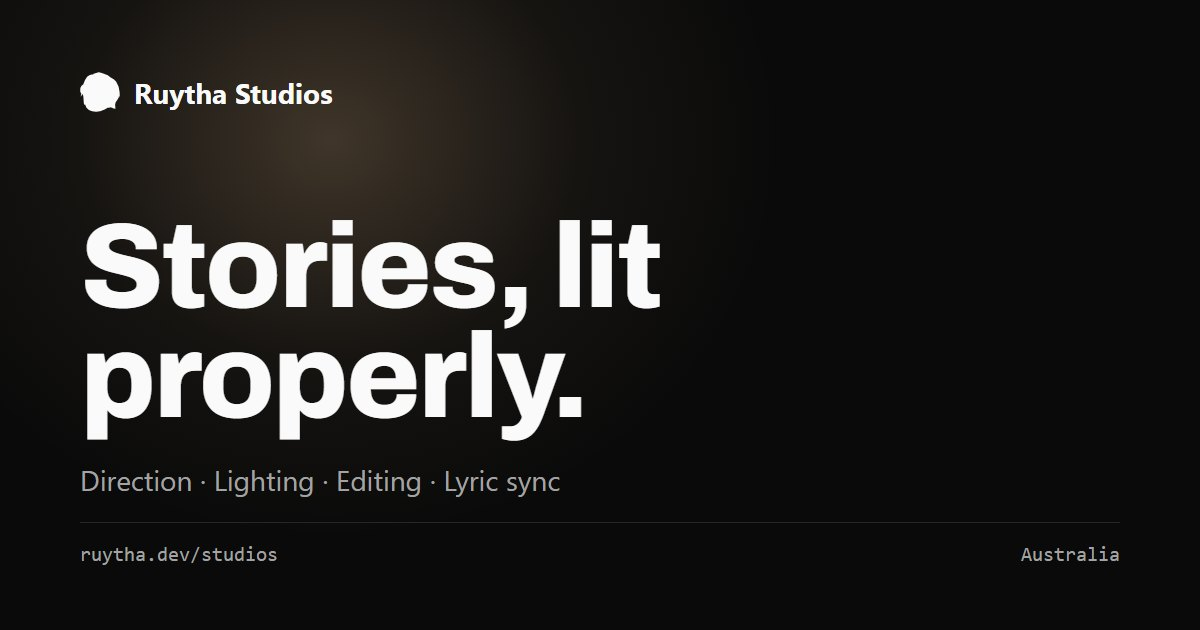
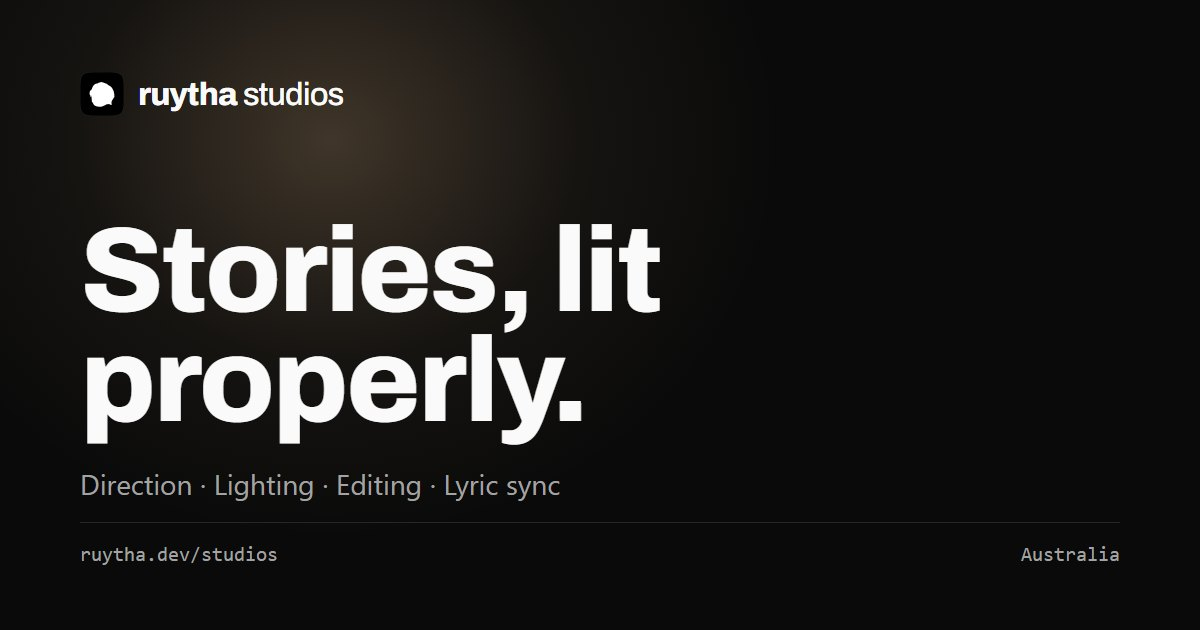
New Ruytha Studios mark in the Apple Music style
Monochrome squircle icon (white head on black, flips in light mode) and a
heavy lowercase wordmark with a lighter "studios", across every studio
page, the favicons and the link preview. Favicons get new names to skip
the week-long image cache.

diff --git a/studios/legal/shutter/terms-of-service.html b/studios/legal/shutter/terms-of-service.html
@@ -15,18 +15,18 @@
 <meta property="og:url" content="https://ruytha.dev/studios/legal/shutter/terms-of-service">
 <meta property="og:image" content="https://ruytha.dev/assets/img/studios/og.jpg">
 <meta name="twitter:card" content="summary_large_image">
-<link rel="icon" href="../../../assets/img/studios/icon.svg" type="image/svg+xml">
-<link rel="icon" href="../../../assets/img/studios/icon-32.png" type="image/png" sizes="32x32">
-<link rel="apple-touch-icon" href="../../../assets/img/studios/apple-touch-icon.png">
+<link rel="icon" href="../../../assets/img/studios/app-icon.svg" type="image/svg+xml">
+<link rel="icon" href="../../../assets/img/studios/app-icon-32.png" type="image/png" sizes="32x32">
+<link rel="apple-touch-icon" href="../../../assets/img/studios/app-touch-icon.png">
 <link rel="preconnect" href="https://fonts.googleapis.com">
 <link rel="preconnect" href="https://fonts.gstatic.com" crossorigin>
-<link rel="stylesheet" href="https://fonts.googleapis.com/css2?family=Archivo:wght@700;800&display=swap">
+<link rel="stylesheet" href="https://fonts.googleapis.com/css2?family=Archivo:wght@500;700;800&display=swap">
 <link rel="stylesheet" href="../../../assets/studios.css">
 </head>
 <body>
 <header class="nav">
   <div class="w">
-    <a class="logo" href="/studios"><i class="logo-mark" aria-hidden="true"></i>Ruytha Studios</a>
+    <a class="logo" href="/studios"><img class="logo-tile" src="../../../assets/img/studios/mark.svg" alt="" width="26" height="26"><span class="wm"><b>ruytha</b> studios</span></a>
     <nav class="links" aria-label="Pages"><a href="/studios/services">Services</a><a href="/studios/toolkit">Toolkit</a><a href="/studios/shutter">Shutter</a><a href="/studios/slate">Slate</a><a href="/studios/tools">Tools</a><a href="/studios/contact">Contact</a></nav>
     <a class="btn solid" href="/studios/contact">Start a project</a>
     <button class="menu-btn" type="button" aria-expanded="false" aria-controls="mnav" aria-label="Menu"><span></span><span></span></button>
@@ -97,7 +97,7 @@
 
 <footer>
   <div class="w">
-    <a class="logo" href="/studios"><i class="logo-mark" aria-hidden="true"></i>Ruytha Studios</a>
+    <a class="logo" href="/studios"><img class="logo-tile" src="../../../assets/img/studios/mark.svg" alt="" width="26" height="26"><span class="wm"><b>ruytha</b> studios</span></a>
     <a href="/studios/services">Services</a><a href="/studios/toolkit">Toolkit</a><a href="/studios/shutter">Shutter</a><a href="/studios/slate">Slate</a><a href="/studios/tools">Tools</a><a href="/studios/contact">Contact</a>
     <a href="/">Ruytha's site</a>
     <a href="/studios/legal">Legal</a>

diff --git a/studios/legal/slate/terms-of-service.html b/studios/legal/slate/terms-of-service.html
@@ -15,18 +15,18 @@
 <meta property="og:url" content="https://ruytha.dev/studios/legal/slate/terms-of-service">
 <meta property="og:image" content="https://ruytha.dev/assets/img/studios/og.jpg">
 <meta name="twitter:card" content="summary_large_image">
-<link rel="icon" href="../../../assets/img/studios/icon.svg" type="image/svg+xml">
-<link rel="icon" href="../../../assets/img/studios/icon-32.png" type="image/png" sizes="32x32">
-<link rel="apple-touch-icon" href="../../../assets/img/studios/apple-touch-icon.png">
+<link rel="icon" href="../../../assets/img/studios/app-icon.svg" type="image/svg+xml">
+<link rel="icon" href="../../../assets/img/studios/app-icon-32.png" type="image/png" sizes="32x32">
+<link rel="apple-touch-icon" href="../../../assets/img/studios/app-touch-icon.png">
 <link rel="preconnect" href="https://fonts.googleapis.com">
 <link rel="preconnect" href="https://fonts.gstatic.com" crossorigin>
-<link rel="stylesheet" href="https://fonts.googleapis.com/css2?family=Archivo:wght@700;800&display=swap">
+<link rel="stylesheet" href="https://fonts.googleapis.com/css2?family=Archivo:wght@500;700;800&display=swap">
 <link rel="stylesheet" href="../../../assets/studios.css">
 </head>
 <body>
 <header class="nav">
   <div class="w">
-    <a class="logo" href="/studios"><i class="logo-mark" aria-hidden="true"></i>Ruytha Studios</a>
+    <a class="logo" href="/studios"><img class="logo-tile" src="../../../assets/img/studios/mark.svg" alt="" width="26" height="26"><span class="wm"><b>ruytha</b> studios</span></a>
     <nav class="links" aria-label="Pages"><a href="/studios/services">Services</a><a href="/studios/toolkit">Toolkit</a><a href="/studios/shutter">Shutter</a><a href="/studios/slate">Slate</a><a href="/studios/tools">Tools</a><a href="/studios/contact">Contact</a></nav>
     <a class="btn solid" href="/studios/contact">Start a project</a>
     <button class="menu-btn" type="button" aria-expanded="false" aria-controls="mnav" aria-label="Menu"><span></span><span></span></button>
@@ -75,7 +75,7 @@
 
 <footer>
   <div class="w">
-    <a class="logo" href="/studios"><i class="logo-mark" aria-hidden="true"></i>Ruytha Studios</a>
+    <a class="logo" href="/studios"><img class="logo-tile" src="../../../assets/img/studios/mark.svg" alt="" width="26" height="26"><span class="wm"><b>ruytha</b> studios</span></a>
     <a href="/studios/services">Services</a><a href="/studios/toolkit">Toolkit</a><a href="/studios/shutter">Shutter</a><a href="/studios/slate">Slate</a><a href="/studios/tools">Tools</a><a href="/studios/contact">Contact</a>
     <a href="/">Ruytha's site</a>
     <a href="/studios/legal">Legal</a>

diff --git a/studios/legal/tools/terms-of-service.html b/studios/legal/tools/terms-of-service.html
@@ -15,18 +15,18 @@
 <meta property="og:url" content="https://ruytha.dev/studios/legal/tools/terms-of-service">
 <meta property="og:image" content="https://ruytha.dev/assets/img/studios/og.jpg">
 <meta name="twitter:card" content="summary_large_image">
-<link rel="icon" href="../../../assets/img/studios/icon.svg" type="image/svg+xml">
-<link rel="icon" href="../../../assets/img/studios/icon-32.png" type="image/png" sizes="32x32">
-<link rel="apple-touch-icon" href="../../../assets/img/studios/apple-touch-icon.png">
+<link rel="icon" href="../../../assets/img/studios/app-icon.svg" type="image/svg+xml">
+<link rel="icon" href="../../../assets/img/studios/app-icon-32.png" type="image/png" sizes="32x32">
+<link rel="apple-touch-icon" href="../../../assets/img/studios/app-touch-icon.png">
 <link rel="preconnect" href="https://fonts.googleapis.com">
 <link rel="preconnect" href="https://fonts.gstatic.com" crossorigin>
-<link rel="stylesheet" href="https://fonts.googleapis.com/css2?family=Archivo:wght@700;800&display=swap">
+<link rel="stylesheet" href="https://fonts.googleapis.com/css2?family=Archivo:wght@500;700;800&display=swap">
 <link rel="stylesheet" href="../../../assets/studios.css">
 </head>
 <body>
 <header class="nav">
   <div class="w">
-    <a class="logo" href="/studios"><i class="logo-mark" aria-hidden="true"></i>Ruytha Studios</a>
+    <a class="logo" href="/studios"><img class="logo-tile" src="../../../assets/img/studios/mark.svg" alt="" width="26" height="26"><span class="wm"><b>ruytha</b> studios</span></a>
     <nav class="links" aria-label="Pages"><a href="/studios/services">Services</a><a href="/studios/toolkit">Toolkit</a><a href="/studios/shutter">Shutter</a><a href="/studios/slate">Slate</a><a href="/studios/tools">Tools</a><a href="/studios/contact">Contact</a></nav>
     <a class="btn solid" href="/studios/contact">Start a project</a>
     <button class="menu-btn" type="button" aria-expanded="false" aria-controls="mnav" aria-label="Menu"><span></span><span></span></button>
@@ -64,7 +64,7 @@
 
 <footer>
   <div class="w">
-    <a class="logo" href="/studios"><i class="logo-mark" aria-hidden="true"></i>Ruytha Studios</a>
+    <a class="logo" href="/studios"><img class="logo-tile" src="../../../assets/img/studios/mark.svg" alt="" width="26" height="26"><span class="wm"><b>ruytha</b> studios</span></a>
     <a href="/studios/services">Services</a><a href="/studios/toolkit">Toolkit</a><a href="/studios/shutter">Shutter</a><a href="/studios/slate">Slate</a><a href="/studios/tools">Tools</a><a href="/studios/contact">Contact</a>
     <a href="/">Ruytha's site</a>
     <a href="/studios/legal">Legal</a>

diff --git a/studios/shutter.html b/studios/shutter.html
@@ -15,18 +15,18 @@
 <meta property="og:url" content="https://ruytha.dev/studios/shutter">
 <meta property="og:image" content="https://ruytha.dev/assets/img/studios/shutter-review.jpg">
 <meta name="twitter:card" content="summary_large_image">
-<link rel="icon" href="../assets/img/studios/icon.svg" type="image/svg+xml">
-<link rel="icon" href="../assets/img/studios/icon-32.png" type="image/png" sizes="32x32">
-<link rel="apple-touch-icon" href="../assets/img/studios/apple-touch-icon.png">
+<link rel="icon" href="../assets/img/studios/app-icon.svg" type="image/svg+xml">
+<link rel="icon" href="../assets/img/studios/app-icon-32.png" type="image/png" sizes="32x32">
+<link rel="apple-touch-icon" href="../assets/img/studios/app-touch-icon.png">
 <link rel="preconnect" href="https://fonts.googleapis.com">
 <link rel="preconnect" href="https://fonts.gstatic.com" crossorigin>
-<link rel="stylesheet" href="https://fonts.googleapis.com/css2?family=Archivo:wght@700;800&display=swap">
+<link rel="stylesheet" href="https://fonts.googleapis.com/css2?family=Archivo:wght@500;700;800&display=swap">
 <link rel="stylesheet" href="../assets/studios.css">
 </head>
 <body>
 <header class="nav">
   <div class="w">
-    <a class="logo" href="/studios"><i class="logo-mark" aria-hidden="true"></i>Ruytha Studios</a>
+    <a class="logo" href="/studios"><img class="logo-tile" src="../assets/img/studios/mark.svg" alt="" width="26" height="26"><span class="wm"><b>ruytha</b> studios</span></a>
     <nav class="links" aria-label="Pages"><a href="/studios/services">Services</a><a href="/studios/toolkit">Toolkit</a><a href="/studios/shutter" aria-current="page">Shutter</a><a href="/studios/slate">Slate</a><a href="/studios/tools">Tools</a><a href="/studios/contact">Contact</a></nav>
     <a class="btn solid" href="/studios/contact">Start a project</a>
     <button class="menu-btn" type="button" aria-expanded="false" aria-controls="mnav" aria-label="Menu"><span></span><span></span></button>
@@ -124,7 +124,7 @@
 
 <footer>
   <div class="w">
-    <a class="logo" href="/studios"><i class="logo-mark" aria-hidden="true"></i>Ruytha Studios</a>
+    <a class="logo" href="/studios"><img class="logo-tile" src="../assets/img/studios/mark.svg" alt="" width="26" height="26"><span class="wm"><b>ruytha</b> studios</span></a>
     <a href="/studios/services">Services</a><a href="/studios/toolkit">Toolkit</a><a href="/studios/shutter">Shutter</a><a href="/studios/slate">Slate</a><a href="/studios/tools">Tools</a><a href="/studios/contact">Contact</a>
     <a href="/">Ruytha's site</a>
     <a href="/studios/legal">Legal</a>

diff --git a/studios/tools.html b/studios/tools.html
@@ -15,18 +15,18 @@
 <meta property="og:url" content="https://ruytha.dev/studios/tools">
 <meta property="og:image" content="https://ruytha.dev/assets/img/studios/tools-results.jpg">
 <meta name="twitter:card" content="summary_large_image">
-<link rel="icon" href="../assets/img/studios/icon.svg" type="image/svg+xml">
-<link rel="icon" href="../assets/img/studios/icon-32.png" type="image/png" sizes="32x32">
-<link rel="apple-touch-icon" href="../assets/img/studios/apple-touch-icon.png">
+<link rel="icon" href="../assets/img/studios/app-icon.svg" type="image/svg+xml">
+<link rel="icon" href="../assets/img/studios/app-icon-32.png" type="image/png" sizes="32x32">
+<link rel="apple-touch-icon" href="../assets/img/studios/app-touch-icon.png">
 <link rel="preconnect" href="https://fonts.googleapis.com">
 <link rel="preconnect" href="https://fonts.gstatic.com" crossorigin>
-<link rel="stylesheet" href="https://fonts.googleapis.com/css2?family=Archivo:wght@700;800&display=swap">
+<link rel="stylesheet" href="https://fonts.googleapis.com/css2?family=Archivo:wght@500;700;800&display=swap">
 <link rel="stylesheet" href="../assets/studios.css">
 </head>
 <body>
 <header class="nav">
   <div class="w">
-    <a class="logo" href="/studios"><i class="logo-mark" aria-hidden="true"></i>Ruytha Studios</a>
+    <a class="logo" href="/studios"><img class="logo-tile" src="../assets/img/studios/mark.svg" alt="" width="26" height="26"><span class="wm"><b>ruytha</b> studios</span></a>
     <nav class="links" aria-label="Pages"><a href="/studios/services">Services</a><a href="/studios/toolkit">Toolkit</a><a href="/studios/shutter">Shutter</a><a href="/studios/slate">Slate</a><a href="/studios/tools" aria-current="page">Tools</a><a href="/studios/contact">Contact</a></nav>
     <a class="btn solid" href="/studios/contact">Start a project</a>
     <button class="menu-btn" type="button" aria-expanded="false" aria-controls="mnav" aria-label="Menu"><span></span><span></span></button>
@@ -91,7 +91,7 @@
 
 <footer>
   <div class="w">
-    <a class="logo" href="/studios"><i class="logo-mark" aria-hidden="true"></i>Ruytha Studios</a>
+    <a class="logo" href="/studios"><img class="logo-tile" src="../assets/img/studios/mark.svg" alt="" width="26" height="26"><span class="wm"><b>ruytha</b> studios</span></a>
     <a href="/studios/services">Services</a><a href="/studios/toolkit">Toolkit</a><a href="/studios/shutter">Shutter</a><a href="/studios/slate">Slate</a><a href="/studios/tools">Tools</a><a href="/studios/contact">Contact</a>
     <a href="/">Ruytha's site</a>
     <a href="/studios/legal">Legal</a>

diff --git a/studios/slate.html b/studios/slate.html
@@ -15,18 +15,18 @@
 <meta property="og:url" content="https://ruytha.dev/studios/slate">
 <meta property="og:image" content="https://ruytha.dev/assets/img/studios/slate-plan.jpg">
 <meta name="twitter:card" content="summary_large_image">
-<link rel="icon" href="../assets/img/studios/icon.svg" type="image/svg+xml">
-<link rel="icon" href="../assets/img/studios/icon-32.png" type="image/png" sizes="32x32">
-<link rel="apple-touch-icon" href="../assets/img/studios/apple-touch-icon.png">
+<link rel="icon" href="../assets/img/studios/app-icon.svg" type="image/svg+xml">
+<link rel="icon" href="../assets/img/studios/app-icon-32.png" type="image/png" sizes="32x32">
+<link rel="apple-touch-icon" href="../assets/img/studios/app-touch-icon.png">
 <link rel="preconnect" href="https://fonts.googleapis.com">
 <link rel="preconnect" href="https://fonts.gstatic.com" crossorigin>
-<link rel="stylesheet" href="https://fonts.googleapis.com/css2?family=Archivo:wght@700;800&display=swap">
+<link rel="stylesheet" href="https://fonts.googleapis.com/css2?family=Archivo:wght@500;700;800&display=swap">
 <link rel="stylesheet" href="../assets/studios.css">
 </head>
 <body>
 <header class="nav">
   <div class="w">
-    <a class="logo" href="/studios"><i class="logo-mark" aria-hidden="true"></i>Ruytha Studios</a>
+    <a class="logo" href="/studios"><img class="logo-tile" src="../assets/img/studios/mark.svg" alt="" width="26" height="26"><span class="wm"><b>ruytha</b> studios</span></a>
     <nav class="links" aria-label="Pages"><a href="/studios/services">Services</a><a href="/studios/toolkit">Toolkit</a><a href="/studios/shutter">Shutter</a><a href="/studios/slate" aria-current="page">Slate</a><a href="/studios/tools">Tools</a><a href="/studios/contact">Contact</a></nav>
     <a class="btn solid" href="/studios/contact">Start a project</a>
     <button class="menu-btn" type="button" aria-expanded="false" aria-controls="mnav" aria-label="Menu"><span></span><span></span></button>
@@ -95,7 +95,7 @@
 
 <footer>
   <div class="w">
-    <a class="logo" href="/studios"><i class="logo-mark" aria-hidden="true"></i>Ruytha Studios</a>
+    <a class="logo" href="/studios"><img class="logo-tile" src="../assets/img/studios/mark.svg" alt="" width="26" height="26"><span class="wm"><b>ruytha</b> studios</span></a>
     <a href="/studios/services">Services</a><a href="/studios/toolkit">Toolkit</a><a href="/studios/shutter">Shutter</a><a href="/studios/slate">Slate</a><a href="/studios/tools">Tools</a><a href="/studios/contact">Contact</a>
     <a href="/">Ruytha's site</a>
     <a href="/studios/legal">Legal</a>

diff --git a/studios/legal/index.html b/studios/legal/index.html
@@ -15,18 +15,18 @@
 <meta property="og:url" content="https://ruytha.dev/studios/legal">
 <meta property="og:image" content="https://ruytha.dev/assets/img/studios/og.jpg">
 <meta name="twitter:card" content="summary_large_image">
-<link rel="icon" href="../../assets/img/studios/icon.svg" type="image/svg+xml">
-<link rel="icon" href="../../assets/img/studios/icon-32.png" type="image/png" sizes="32x32">
-<link rel="apple-touch-icon" href="../../assets/img/studios/apple-touch-icon.png">
+<link rel="icon" href="../../assets/img/studios/app-icon.svg" type="image/svg+xml">
+<link rel="icon" href="../../assets/img/studios/app-icon-32.png" type="image/png" sizes="32x32">
+<link rel="apple-touch-icon" href="../../assets/img/studios/app-touch-icon.png">
 <link rel="preconnect" href="https://fonts.googleapis.com">
 <link rel="preconnect" href="https://fonts.gstatic.com" crossorigin>
-<link rel="stylesheet" href="https://fonts.googleapis.com/css2?family=Archivo:wght@700;800&display=swap">
+<link rel="stylesheet" href="https://fonts.googleapis.com/css2?family=Archivo:wght@500;700;800&display=swap">
 <link rel="stylesheet" href="../../assets/studios.css">
 </head>
 <body>
 <header class="nav">
   <div class="w">
-    <a class="logo" href="/studios"><i class="logo-mark" aria-hidden="true"></i>Ruytha Studios</a>
+    <a class="logo" href="/studios"><img class="logo-tile" src="../../assets/img/studios/mark.svg" alt="" width="26" height="26"><span class="wm"><b>ruytha</b> studios</span></a>
     <nav class="links" aria-label="Pages"><a href="/studios/services">Services</a><a href="/studios/toolkit">Toolkit</a><a href="/studios/shutter">Shutter</a><a href="/studios/slate">Slate</a><a href="/studios/tools">Tools</a><a href="/studios/contact">Contact</a></nav>
     <a class="btn solid" href="/studios/contact">Start a project</a>
     <button class="menu-btn" type="button" aria-expanded="false" aria-controls="mnav" aria-label="Menu"><span></span><span></span></button>
@@ -53,7 +53,7 @@
 
 <footer>
   <div class="w">
-    <a class="logo" href="/studios"><i class="logo-mark" aria-hidden="true"></i>Ruytha Studios</a>
+    <a class="logo" href="/studios"><img class="logo-tile" src="../../assets/img/studios/mark.svg" alt="" width="26" height="26"><span class="wm"><b>ruytha</b> studios</span></a>
     <a href="/studios/services">Services</a><a href="/studios/toolkit">Toolkit</a><a href="/studios/shutter">Shutter</a><a href="/studios/slate">Slate</a><a href="/studios/tools">Tools</a><a href="/studios/contact">Contact</a>
     <a href="/">Ruytha's site</a>
     <a href="/studios/legal">Legal</a>

diff --git a/studios/services.html b/studios/services.html
@@ -15,18 +15,18 @@
 <meta property="og:url" content="https://ruytha.dev/studios/services">
 <meta property="og:image" content="https://ruytha.dev/assets/img/studios/og.jpg">
 <meta name="twitter:card" content="summary_large_image">
-<link rel="icon" href="../assets/img/studios/icon.svg" type="image/svg+xml">
-<link rel="icon" href="../assets/img/studios/icon-32.png" type="image/png" sizes="32x32">
-<link rel="apple-touch-icon" href="../assets/img/studios/apple-touch-icon.png">
+<link rel="icon" href="../assets/img/studios/app-icon.svg" type="image/svg+xml">
+<link rel="icon" href="../assets/img/studios/app-icon-32.png" type="image/png" sizes="32x32">
+<link rel="apple-touch-icon" href="../assets/img/studios/app-touch-icon.png">
 <link rel="preconnect" href="https://fonts.googleapis.com">
 <link rel="preconnect" href="https://fonts.gstatic.com" crossorigin>
-<link rel="stylesheet" href="https://fonts.googleapis.com/css2?family=Archivo:wght@700;800&display=swap">
+<link rel="stylesheet" href="https://fonts.googleapis.com/css2?family=Archivo:wght@500;700;800&display=swap">
 <link rel="stylesheet" href="../assets/studios.css">
 </head>
 <body>
 <header class="nav">
   <div class="w">
-    <a class="logo" href="/studios"><i class="logo-mark" aria-hidden="true"></i>Ruytha Studios</a>
+    <a class="logo" href="/studios"><img class="logo-tile" src="../assets/img/studios/mark.svg" alt="" width="26" height="26"><span class="wm"><b>ruytha</b> studios</span></a>
     <nav class="links" aria-label="Pages"><a href="/studios/services" aria-current="page">Services</a><a href="/studios/toolkit">Toolkit</a><a href="/studios/shutter">Shutter</a><a href="/studios/slate">Slate</a><a href="/studios/tools">Tools</a><a href="/studios/contact">Contact</a></nav>
     <a class="btn solid" href="/studios/contact">Start a project</a>
     <button class="menu-btn" type="button" aria-expanded="false" aria-controls="mnav" aria-label="Menu"><span></span><span></span></button>
@@ -59,7 +59,7 @@
 
 <footer>
   <div class="w">
-    <a class="logo" href="/studios"><i class="logo-mark" aria-hidden="true"></i>Ruytha Studios</a>
+    <a class="logo" href="/studios"><img class="logo-tile" src="../assets/img/studios/mark.svg" alt="" width="26" height="26"><span class="wm"><b>ruytha</b> studios</span></a>
     <a href="/studios/services">Services</a><a href="/studios/toolkit">Toolkit</a><a href="/studios/shutter">Shutter</a><a href="/studios/slate">Slate</a><a href="/studios/tools">Tools</a><a href="/studios/contact">Contact</a>
     <a href="/">Ruytha's site</a>
     <a href="/studios/legal">Legal</a>

diff --git a/studios/contact.html b/studios/contact.html
@@ -15,18 +15,18 @@
 <meta property="og:url" content="https://ruytha.dev/studios/contact">
 <meta property="og:image" content="https://ruytha.dev/assets/img/studios/og.jpg">
 <meta name="twitter:card" content="summary_large_image">
-<link rel="icon" href="../assets/img/studios/icon.svg" type="image/svg+xml">
-<link rel="icon" href="../assets/img/studios/icon-32.png" type="image/png" sizes="32x32">
-<link rel="apple-touch-icon" href="../assets/img/studios/apple-touch-icon.png">
+<link rel="icon" href="../assets/img/studios/app-icon.svg" type="image/svg+xml">
+<link rel="icon" href="../assets/img/studios/app-icon-32.png" type="image/png" sizes="32x32">
+<link rel="apple-touch-icon" href="../assets/img/studios/app-touch-icon.png">
 <link rel="preconnect" href="https://fonts.googleapis.com">
 <link rel="preconnect" href="https://fonts.gstatic.com" crossorigin>
-<link rel="stylesheet" href="https://fonts.googleapis.com/css2?family=Archivo:wght@700;800&display=swap">
+<link rel="stylesheet" href="https://fonts.googleapis.com/css2?family=Archivo:wght@500;700;800&display=swap">
 <link rel="stylesheet" href="../assets/studios.css">
 </head>
 <body>
 <header class="nav">
   <div class="w">
-    <a class="logo" href="/studios"><i class="logo-mark" aria-hidden="true"></i>Ruytha Studios</a>
+    <a class="logo" href="/studios"><img class="logo-tile" src="../assets/img/studios/mark.svg" alt="" width="26" height="26"><span class="wm"><b>ruytha</b> studios</span></a>
     <nav class="links" aria-label="Pages"><a href="/studios/services">Services</a><a href="/studios/toolkit">Toolkit</a><a href="/studios/shutter">Shutter</a><a href="/studios/slate">Slate</a><a href="/studios/tools">Tools</a><a href="/studios/contact" aria-current="page">Contact</a></nav>
     <a class="btn solid" href="/studios/contact">Start a project</a>
     <button class="menu-btn" type="button" aria-expanded="false" aria-controls="mnav" aria-label="Menu"><span></span><span></span></button>
@@ -81,7 +81,7 @@
 
 <footer>
   <div class="w">
-    <a class="logo" href="/studios"><i class="logo-mark" aria-hidden="true"></i>Ruytha Studios</a>
+    <a class="logo" href="/studios"><img class="logo-tile" src="../assets/img/studios/mark.svg" alt="" width="26" height="26"><span class="wm"><b>ruytha</b> studios</span></a>
     <a href="/studios/services">Services</a><a href="/studios/toolkit">Toolkit</a><a href="/studios/shutter">Shutter</a><a href="/studios/slate">Slate</a><a href="/studios/tools">Tools</a><a href="/studios/contact">Contact</a>
     <a href="/">Ruytha's site</a>
     <a href="/studios/legal">Legal</a>

diff --git a/studios/toolkit.html b/studios/toolkit.html
@@ -15,18 +15,18 @@
 <meta property="og:url" content="https://ruytha.dev/studios/toolkit">
 <meta property="og:image" content="https://ruytha.dev/assets/img/studios/og.jpg">
 <meta name="twitter:card" content="summary_large_image">
-<link rel="icon" href="../assets/img/studios/icon.svg" type="image/svg+xml">
-<link rel="icon" href="../assets/img/studios/icon-32.png" type="image/png" sizes="32x32">
-<link rel="apple-touch-icon" href="../assets/img/studios/apple-touch-icon.png">
+<link rel="icon" href="../assets/img/studios/app-icon.svg" type="image/svg+xml">
+<link rel="icon" href="../assets/img/studios/app-icon-32.png" type="image/png" sizes="32x32">
+<link rel="apple-touch-icon" href="../assets/img/studios/app-touch-icon.png">
 <link rel="preconnect" href="https://fonts.googleapis.com">
 <link rel="preconnect" href="https://fonts.gstatic.com" crossorigin>
-<link rel="stylesheet" href="https://fonts.googleapis.com/css2?family=Archivo:wght@700;800&display=swap">
+<link rel="stylesheet" href="https://fonts.googleapis.com/css2?family=Archivo:wght@500;700;800&display=swap">
 <link rel="stylesheet" href="../assets/studios.css">
 </head>
 <body>
 <header class="nav">
   <div class="w">
-    <a class="logo" href="/studios"><i class="logo-mark" aria-hidden="true"></i>Ruytha Studios</a>
+    <a class="logo" href="/studios"><img class="logo-tile" src="../assets/img/studios/mark.svg" alt="" width="26" height="26"><span class="wm"><b>ruytha</b> studios</span></a>
     <nav class="links" aria-label="Pages"><a href="/studios/services">Services</a><a href="/studios/toolkit" aria-current="page">Toolkit</a><a href="/studios/shutter">Shutter</a><a href="/studios/slate">Slate</a><a href="/studios/tools">Tools</a><a href="/studios/contact">Contact</a></nav>
     <a class="btn solid" href="/studios/contact">Start a project</a>
     <button class="menu-btn" type="button" aria-expanded="false" aria-controls="mnav" aria-label="Menu"><span></span><span></span></button>
@@ -59,7 +59,7 @@
 
 <footer>
   <div class="w">
-    <a class="logo" href="/studios"><i class="logo-mark" aria-hidden="true"></i>Ruytha Studios</a>
+    <a class="logo" href="/studios"><img class="logo-tile" src="../assets/img/studios/mark.svg" alt="" width="26" height="26"><span class="wm"><b>ruytha</b> studios</span></a>
     <a href="/studios/services">Services</a><a href="/studios/toolkit">Toolkit</a><a href="/studios/shutter">Shutter</a><a href="/studios/slate">Slate</a><a href="/studios/tools">Tools</a><a href="/studios/contact">Contact</a>
     <a href="/">Ruytha's site</a>
     <a href="/studios/legal">Legal</a>

diff --git a/studios/index.html b/studios/index.html
@@ -15,18 +15,18 @@
 <meta property="og:url" content="https://ruytha.dev/studios">
 <meta property="og:image" content="https://ruytha.dev/assets/img/studios/og.jpg">
 <meta name="twitter:card" content="summary_large_image">
-<link rel="icon" href="../assets/img/studios/icon.svg" type="image/svg+xml">
-<link rel="icon" href="../assets/img/studios/icon-32.png" type="image/png" sizes="32x32">
-<link rel="apple-touch-icon" href="../assets/img/studios/apple-touch-icon.png">
+<link rel="icon" href="../assets/img/studios/app-icon.svg" type="image/svg+xml">
+<link rel="icon" href="../assets/img/studios/app-icon-32.png" type="image/png" sizes="32x32">
+<link rel="apple-touch-icon" href="../assets/img/studios/app-touch-icon.png">
 <link rel="preconnect" href="https://fonts.googleapis.com">
 <link rel="preconnect" href="https://fonts.gstatic.com" crossorigin>
-<link rel="stylesheet" href="https://fonts.googleapis.com/css2?family=Archivo:wght@700;800&display=swap">
+<link rel="stylesheet" href="https://fonts.googleapis.com/css2?family=Archivo:wght@500;700;800&display=swap">
 <link rel="stylesheet" href="../assets/studios.css">
 </head>
 <body>
 <header class="nav">
   <div class="w">
-    <a class="logo" href="/studios"><i class="logo-mark" aria-hidden="true"></i>Ruytha Studios</a>
+    <a class="logo" href="/studios"><img class="logo-tile" src="../assets/img/studios/mark.svg" alt="" width="26" height="26"><span class="wm"><b>ruytha</b> studios</span></a>
     <nav class="links" aria-label="Pages"><a href="/studios/services">Services</a><a href="/studios/toolkit">Toolkit</a><a href="/studios/shutter">Shutter</a><a href="/studios/slate">Slate</a><a href="/studios/tools">Tools</a><a href="/studios/contact">Contact</a></nav>
     <a class="btn solid" href="/studios/contact">Start a project</a>
     <button class="menu-btn" type="button" aria-expanded="false" aria-controls="mnav" aria-label="Menu"><span></span><span></span></button>
@@ -97,7 +97,7 @@
 
 <footer>
   <div class="w">
-    <a class="logo" href="/studios"><i class="logo-mark" aria-hidden="true"></i>Ruytha Studios</a>
+    <a class="logo" href="/studios"><img class="logo-tile" src="../assets/img/studios/mark.svg" alt="" width="26" height="26"><span class="wm"><b>ruytha</b> studios</span></a>
     <a href="/studios/services">Services</a><a href="/studios/toolkit">Toolkit</a><a href="/studios/shutter">Shutter</a><a href="/studios/slate">Slate</a><a href="/studios/tools">Tools</a><a href="/studios/contact">Contact</a>
     <a href="/">Ruytha's site</a>
     <a href="/studios/legal">Legal</a>

diff --git a/assets/studios.css b/assets/studios.css
@@ -23,7 +23,9 @@ h1,h2,h3{font-family:var(--display);margin:0;font-weight:700}
 .nav{border-bottom:1px solid var(--line)}
 .nav>.w{height:64px;display:flex;align-items:center;gap:28px}
 .logo{display:flex;align-items:center;gap:10px;font-weight:700;font-size:16px;text-decoration:none}
-.logo-mark{width:24px;height:24px;flex-shrink:0;background:currentColor;-webkit-mask:url(img/studios/logo.svg) center/contain no-repeat;mask:url(img/studios/logo.svg) center/contain no-repeat}
+.logo-tile{width:26px;height:26px;flex-shrink:0;display:block}
+.wm{font:500 18px/1 var(--display);letter-spacing:-.025em}
+.wm b{font-weight:800}
 .nav .links{display:flex;gap:24px;color:var(--t3)}
 .nav .links a{text-decoration:none}.nav .links a:hover,.nav .links a[aria-current]{color:var(--t1)}
 .nav .btn{margin-left:auto;height:36px;font-size:15px}
